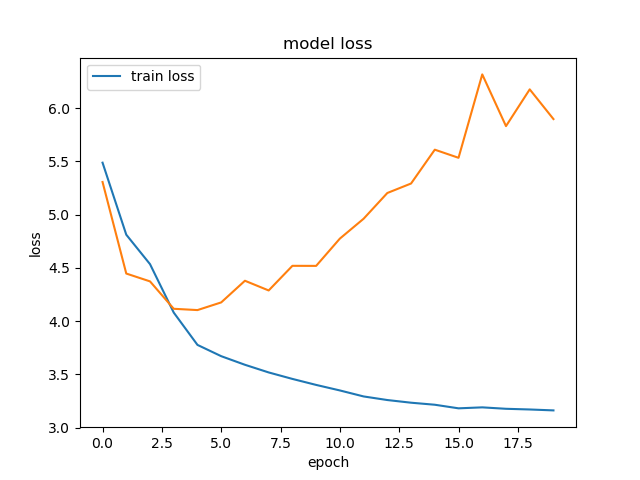
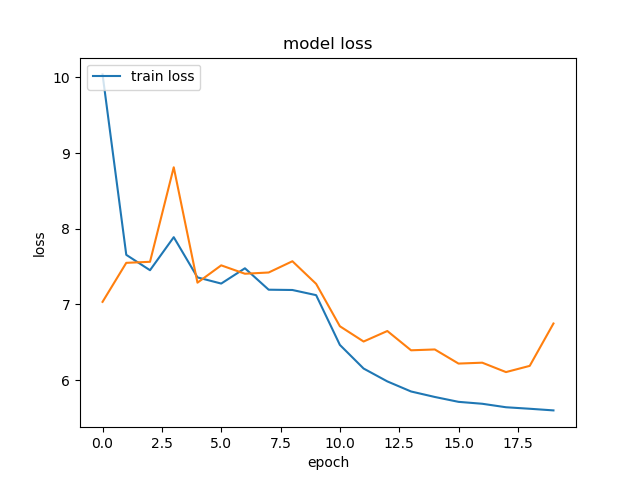
regularization changes - only adam_bn_drop updated

diff --git a/src/main.py b/src/main.py
@@ -64,7 +64,10 @@ def trainModel(model_list):
     ''' Train all models in list and save their progress '''
     X_tr, y_tr, X_val, y_val = getPreparedData()
     # Prepare data generator object
-    datagen = image_utils.ImageDataGenerator()
+    datagen = image_utils.ImageDataGenerator(
+        featurewise_center=True, 
+        samplewise_center=True
+    )
     datagen.fit(X_tr)
     for m_name, params in model_list:
         print('Evaluating model: ' + m_name)
@@ -88,12 +91,12 @@ def main():
     getData # Prepare data
     model_list = [
         # Name,             ["architect", (res),   "solver",  BN?, dropout, init
-        ("sgd",             ["vgg_z", (64, 64, 3), "sgd",     False,   0, 'random_uniform']),
-        ("sgd_mom",         ["vgg_z", (64, 64, 3), "sgd_mom", False,   0, 'random_uniform']),
-        ("adam_bn",         ["vgg_z", (64, 64, 3), "Adam",    True,    0, 'random_uniform']),
+        # ("sgd",             ["vgg_z", (64, 64, 3), "sgd",     False,   0, 'random_uniform']),
+        # ("sgd_mom",         ["vgg_z", (64, 64, 3), "sgd_mom", False,   0, 'random_uniform']),
+        # ("adam_bn",         ["vgg_z", (64, 64, 3), "Adam",    True,    0, 'random_uniform']),
         # ("adam_drop",     ["vgg_z", (64, 64, 3), "Adam",    False, 0.3, 'random_uniform']),
-        ("adam_bn_drop",    ["vgg_z", (64, 64, 3), "Adam",    True,  0.5, 'random_uniform']),
-        ("adam_bn_drop_he", ["vgg_z", (64, 64, 3), "Adam",    True,  0.5, 'he_normal'])
+        ("adam_bn_drop",    ["vgg_z", (64, 64, 3), "Adam",    True,  0.7, 'random_uniform']),
+        ("adam_bn_drop_he", ["vgg_z", (64, 64, 3), "Adam",    True,  0.7, 'he_normal'])
     ]
     trainModel(model_list)
 

diff --git a/src/models.py b/src/models.py
@@ -4,7 +4,7 @@ from keras.preprocessing import image as image_utils
 from keras.optimizers import Adam, SGD
 from keras import metrics, regularizers
 
-l2_rate = 0.0001
+l2_rate = 0.001
 
 def getModel(modelString, dim, opt = "adam", BN = False, dropout = 0, initializer = 'random_uniform'):
     allModels = ['vgg_z']
@@ -81,7 +81,20 @@ def vgg_z(dim, opt, BN, dropout, initializer):
     model.add(Dense(2048,
         kernel_initializer=initializer,
         kernel_regularizer=regularizers.l2(l2_rate)))
+    do_BN()
+    model.add(Activation('relu'))
+    model.add(Dropout(dropout))
 
+    model.add(Dense(2048,
+        kernel_initializer=initializer,
+        kernel_regularizer=regularizers.l2(l2_rate)))
+    do_BN()
+    model.add(Activation('relu'))
+    model.add(Dropout(dropout))
+
+    model.add(Dense(2048,
+        kernel_initializer=initializer,
+        kernel_regularizer=regularizers.l2(l2_rate)))
     do_BN()
     model.add(Activation('relu'))
     model.add(Dropout(dropout))
